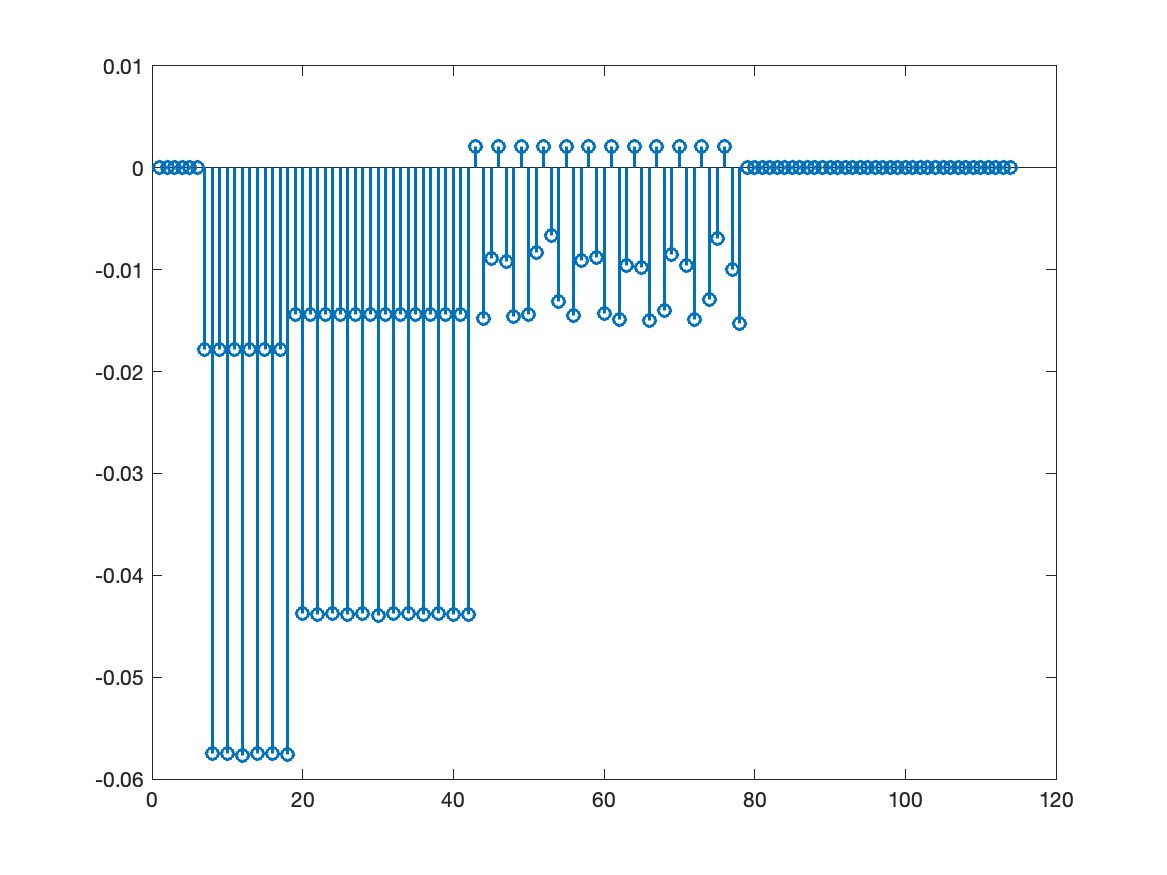
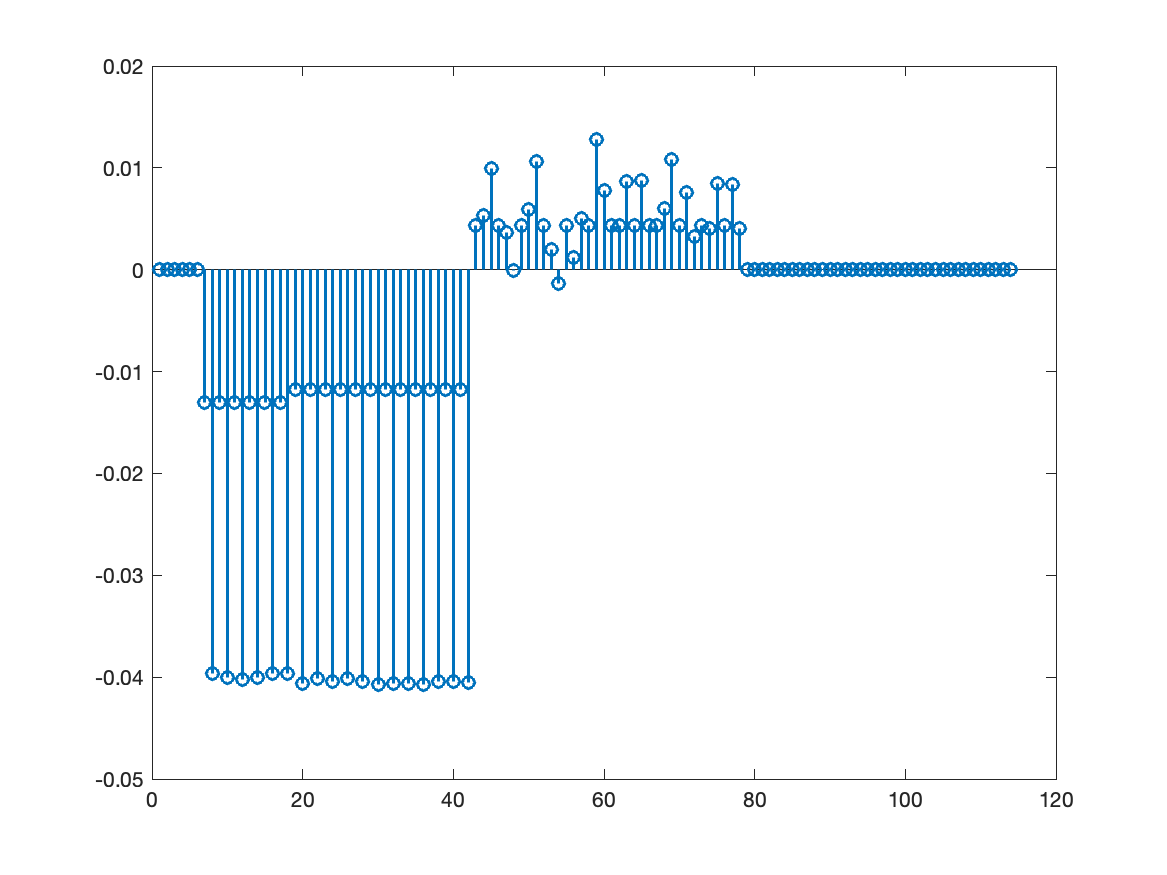
modified ignore

diff --git a/opt3D.m b/opt3D.m
@@ -4,24 +4,20 @@
 %-----------------------------------------------------------%
 clc;clear, close all
 
-X_0 = [0.9    0.9    0.9   0.9 0 0 0 0 0 0 0.9 0.9 0.9 0.9 0.9];
-%X_0= [0.5798    0.8503    0.7184    0.8082    0.3294    0.0758    0.6214 0.0810    0.2917    0.0652 ];
-A = [-eye(4),zeros(4,6), zeros(4,5);
-    eye(4),zeros(4,6), zeros(4,5);
-    zeros(6,4), -eye(6), zeros(6, 5);
-    zeros(6,4), eye(6), zeros(6, 5);
-    zeros(4),zeros(4,6), -eye(4), zeros(4, 1);
-    zeros(4),zeros(4,6), eye(4), zeros(4, 1);
-    zeros(1, 14), -1;
-    zeros(1, 14), 1];
+X_0 = [0.9    0.9    0.9   0.9 0 0 0 0 0 0 0.9 0.9 0.9 0.9];
+
+A = [-eye(4),zeros(4,6), zeros(4);
+    eye(4),zeros(4,6), zeros(4);
+    zeros(6,4), -eye(6), zeros(6, 4);
+    zeros(6,4), eye(6), zeros(6, 4);
+    zeros(4),zeros(4,6), -eye(4);
+    zeros(4),zeros(4,6), eye(4)];
 b = [-0.5 .* ones(4, 1);
     1.2 .* ones(4, 1);
     1.*ones(6,1);
     2.*ones(6,1);
     -0.4 .* ones(4, 1);
-    0.6 .* ones(4, 1);
-    -0.4;
-    2];
+    0.6 .* ones(4, 1)];
 
 options = optimoptions('ga', ...
     'UseParallel', true, ...
@@ -31,8 +27,8 @@ options = optimoptions('ga', ...
     'ConstraintTolerance', 1e-5, ...
     'Display', 'iter');
 
-lb = [0.4.*ones(1, 4), -3 .*ones(1, 6), 0.4 .*ones(1, 5)];
-ub = [1 .*ones(1, 4), 3 .*ones(1, 6), 0.5 .*ones(1, 4), 1];
+lb = [0.4.*ones(1, 4), 0 .*ones(1, 6), 0.4 .*ones(1, 4)];
+ub = [0.9 .*ones(1, 4), 2 .*ones(1, 6), 0.45 .*ones(1, 4)];
 
 %调用 ga 函数进行优化
 [X_0, result] = ga(@obj_antenna, numel(X_0), A, b,[],[],lb,ub,[],options);
@@ -45,8 +41,8 @@ ub = [1 .*ones(1, 4), 3 .*ones(1, 6), 0.5 .*ones(1, 4), 1];
 %result
 
 %%
-l2 = X_0(1); l3 = X_0(2); l4 = X_0(3);
-l11 = X_0(11); l12 = X_0(12); l13 = X_0(13); l14 = X_0(14);l25 = X_0(15);
+l2 = X_0(1); l3 = X_0(2); l4 = X_0(3); l25 = X_0(4);
+l11 = X_0(11); l12 = X_0(12); l13 = X_0(13); l14 = X_0(14);
 tol1_12 = 0.01+0.1*X_0(5);
 tol2_12 = -0.02+0.1*X_0(6);
 tol1_23 = 0.01+0.1*X_0(7);
@@ -72,8 +68,8 @@ y_2 = zeros(12, 1);
 z_2 = zeros(12, 1);
 
 % 1, 3, 5, 7, 9, 11 - On the paraboloid
-Z_1 = parabola(R_1) - tol1_12;
-f = @(phi)(Z_1 + l2*sin(phi) - parabola(R_1+l2*cos(phi))+tol2_12);
+Z_1 = parabola(R_1)-tol1_12;
+f = @(phi)(Z_1 + l2*sin(phi) - parabola(R_1+l2*cos(phi))-tol2_12);
 options = optimoptions('fsolve', 'Display', 'off');
 phi = fsolve(f, pi/3, options);
 R_2 = R_1 + l2*cos(phi);
@@ -120,8 +116,9 @@ for i=1:12
     theta = theta_2(i);
     R = r_2(i);
     Z = z_2(i)-tol1_23;
-    f = @(phi)(Z + l2*sin(phi) - parabola(R+l2*cos(phi))+tol2_23);
-    options = optimoptions('fsolve', 'Display', 'off', 'Algorithm', 'levenberg-marquardt');
+    f = @(phi)(Z + l2*sin(phi) - parabola(R+l2*cos(phi))-tol2_23);
+    options = optimoptions('fsolve', 'Display', 'off', ...
+                           'Algorithm', 'levenberg-marquardt');
     phi = fsolve(f, pi/3, options);
     R_3 = R + l2*cos(phi);
     Z_3 = Z + l2*sin(phi);
@@ -156,6 +153,7 @@ end
 x = vertcat(x, x_3);
 y = vertcat(y, y_3);
 z = vertcat(z, z_3);
+
 
 %------------------- 4th layer:  - 36 -----------------%
 l1 = l14;
@@ -265,7 +263,7 @@ res = zReal - z;
 norm(res)%/sqrt(size(z,1))
 f=figure;
 stem(1:length(z), res, 'LineWidth', 1.5);
-saveas(f, 'data/res', 'png');
+saveas(f, 'data/res', 'fig');
 
 save data/pos.mat x y z l1 l2 res
 
@@ -290,5 +288,5 @@ scatter3(x_4, y_4, z_4, 'LineWidth', 2, 'MarkerEdgeColor', 'm'); hold on
 scatter3(x_5, y_5, z_5, 'LineWidth', 2, 'MarkerEdgeColor', 'r'); hold on
 colorbar
 axis equal
-saveas(f, 'data/antenna', 'png')
+saveas(f, 'data/antenna', 'fig')
 

diff --git a/obj_antenna.m b/obj_antenna.m
@@ -3,8 +3,8 @@
 % 7 Layers                                                  %
 %-----------------------------------------------------------%
 function res = obj_antenna(X)
-l2 = X(1); l3 = X(2); l4 = X(3);
-l11 = X(11); l12 = X(12); l13 = X(13); l14 = X(14); l25 = X(15);
+l2 = X(1); l3 = X(2); l4 = X(3); l25 = X(4);
+l11 = X(11); l12 = X(12); l13 = X(13); l14 = X(14);
 tol1_12 = 0.01+0.1*X(5);
 tol2_12 = -0.02+0.1*X(6);
 tol1_23 = 0.01+0.1*X(7);
